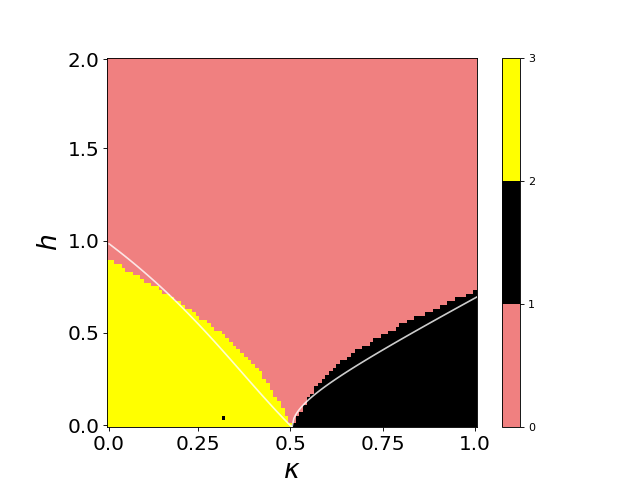
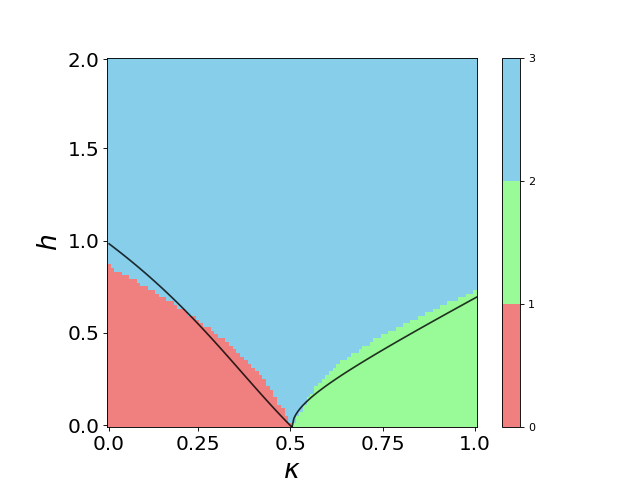
Added method to compute accuracy for three phases

diff --git a/src/Clustering/Clustering.py b/src/Clustering/Clustering.py
@@ -2,6 +2,7 @@ from PhaseEstimation.vqe import *
 import random
 from enum import Enum
 import pennylane as qml
+from sympy.utilities.iterables import multiset_permutations
 import jax
 import jax.numpy as jnp
 import progressbar
@@ -141,6 +142,46 @@ class ClusteringVQE:
 
         if self.show_progress:
             self.bar.finish()
+
+    def compute_accuracy(self):
+        side = jnp.sqrt(self.vqe.Hs.n_states)
+        permutations = list(multiset_permutations([[0, 1], [1, 0], [1, 1]]))
+        predictions = [[0] * self.vqe.Hs.n_states for _ in permutations]
+
+        for i, cluster in enumerate(self.clusters):
+            for index in cluster:
+                for x, permutation in enumerate(permutations):
+                    predictions[x][index] = permutation[i]
+
+        # Compare predictions to actual states
+        # applying inequalities to theoretical curves
+        labels = []
+        for idx in range(self.vqe.Hs.n_states):
+            # compute coordinates and normalize for x in [0,1]
+            # and y in [0,2]
+            x = (idx // side) / side
+            y = 2 * (idx % side) / side
+
+            # If x==0 we get into 0/0 on the theoretical curve
+            if x == 0:
+                if 1 <= y:
+                    labels.append([1, 1])
+                else:
+                    labels.append([0, 1])
+            elif x <= 0.5:
+                if qmlgen.paraferro(x) <= y:
+                    labels.append([1, 1])
+                else:
+                    labels.append([0, 1])
+            else:
+                if (qmlgen.paraanti(x)) <= y:
+                    labels.append([1, 1])
+                else:
+                    labels.append([1, 0])
+
+        correct = jnp.sum(jnp.array(labels) == jnp.array(predictions), axis=2).astype(int) == 2
+        accuracy = (jnp.sum(correct, axis=1) / (side * side)).max()
+        return accuracy
 
     def save(self, filename):
         if not isinstance(filename, str):

diff --git a/src/Clustering/ClusterVisualization.py b/src/Clustering/ClusterVisualization.py
@@ -28,7 +28,7 @@ def visualize_clusters(clusters: List[List], hamiltonians: qml.ops.qubit.hamilto
     norm = mpl.colors.BoundaryNorm(jnp.arange(0, len(clusters) + 1), phases.N)
     side = int(jnp.sqrt(hamiltonians.n_states))
 
-    cluster_visual = [i for i in range(hamiltonians.n_states)]
+    cluster_visual = [0] * hamiltonians.n_states
 
     for i, cluster in enumerate(clusters):
         for index in cluster:
@@ -65,11 +65,12 @@ def visualize_clusters(clusters: List[List], hamiltonians: qml.ops.qubit.hamilto
 
 mode = Mode.analytical
 ClusteringVQEObj = ClusteringVQE("../../data/vqes/ANNNI/N10n100", 3, 50, mode=mode)
-ClusteringVQEObj.cluster(threshold=0.005)
+ClusteringVQEObj.cluster(threshold=0.001)
 ClusteringVQEObj.save(
     "../../data/clustering/clusters/N" + str(ClusteringVQEObj.vqe.Hs.N) + "n" + str(
         int(jnp.sqrt(ClusteringVQEObj.vqe.Hs.n_states))) + "c" + str(ClusteringVQEObj.num_clusters) + "m" + str(
         mode.value))
+print("Accuracy of clustering: " + str(ClusteringVQEObj.compute_accuracy()))
 
 # ClusteringVQEObj = load("../../data/clustering/clusters/N6n100c3")
 visualize_clusters(ClusteringVQEObj.clusters, ClusteringVQEObj.vqe.Hs)
